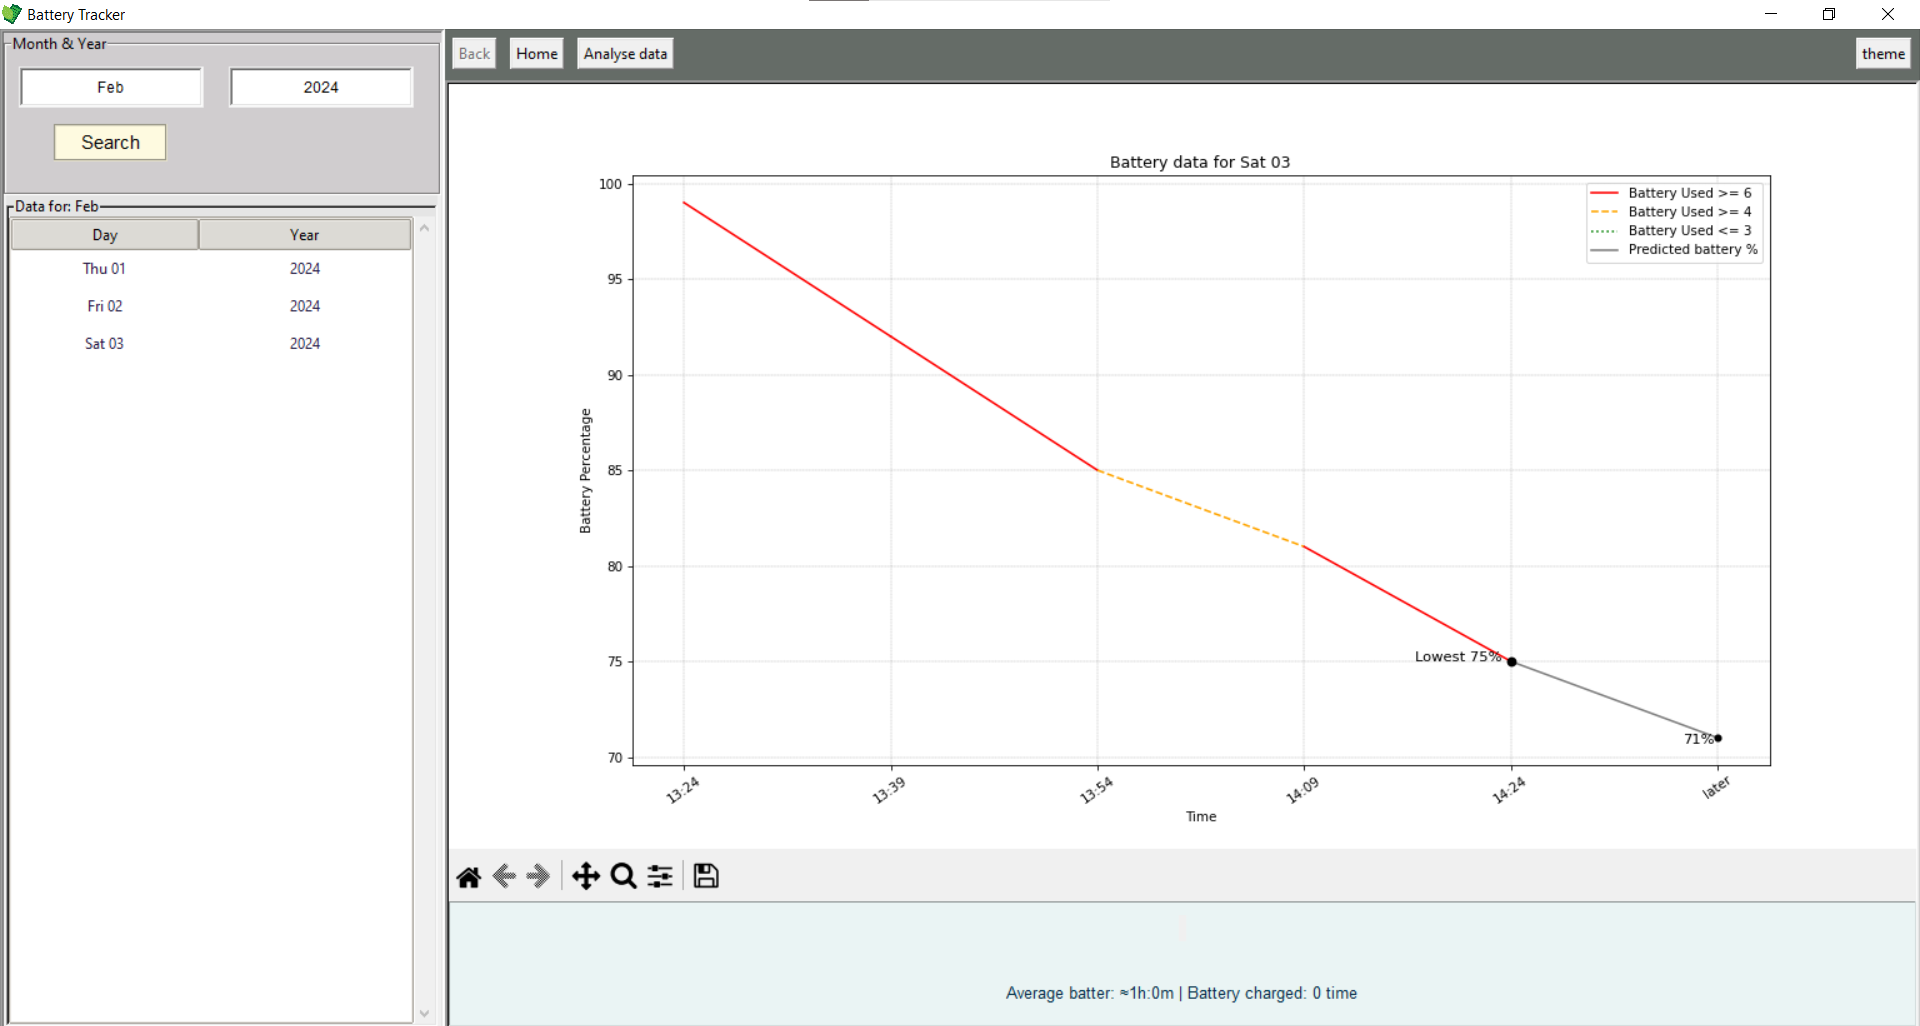
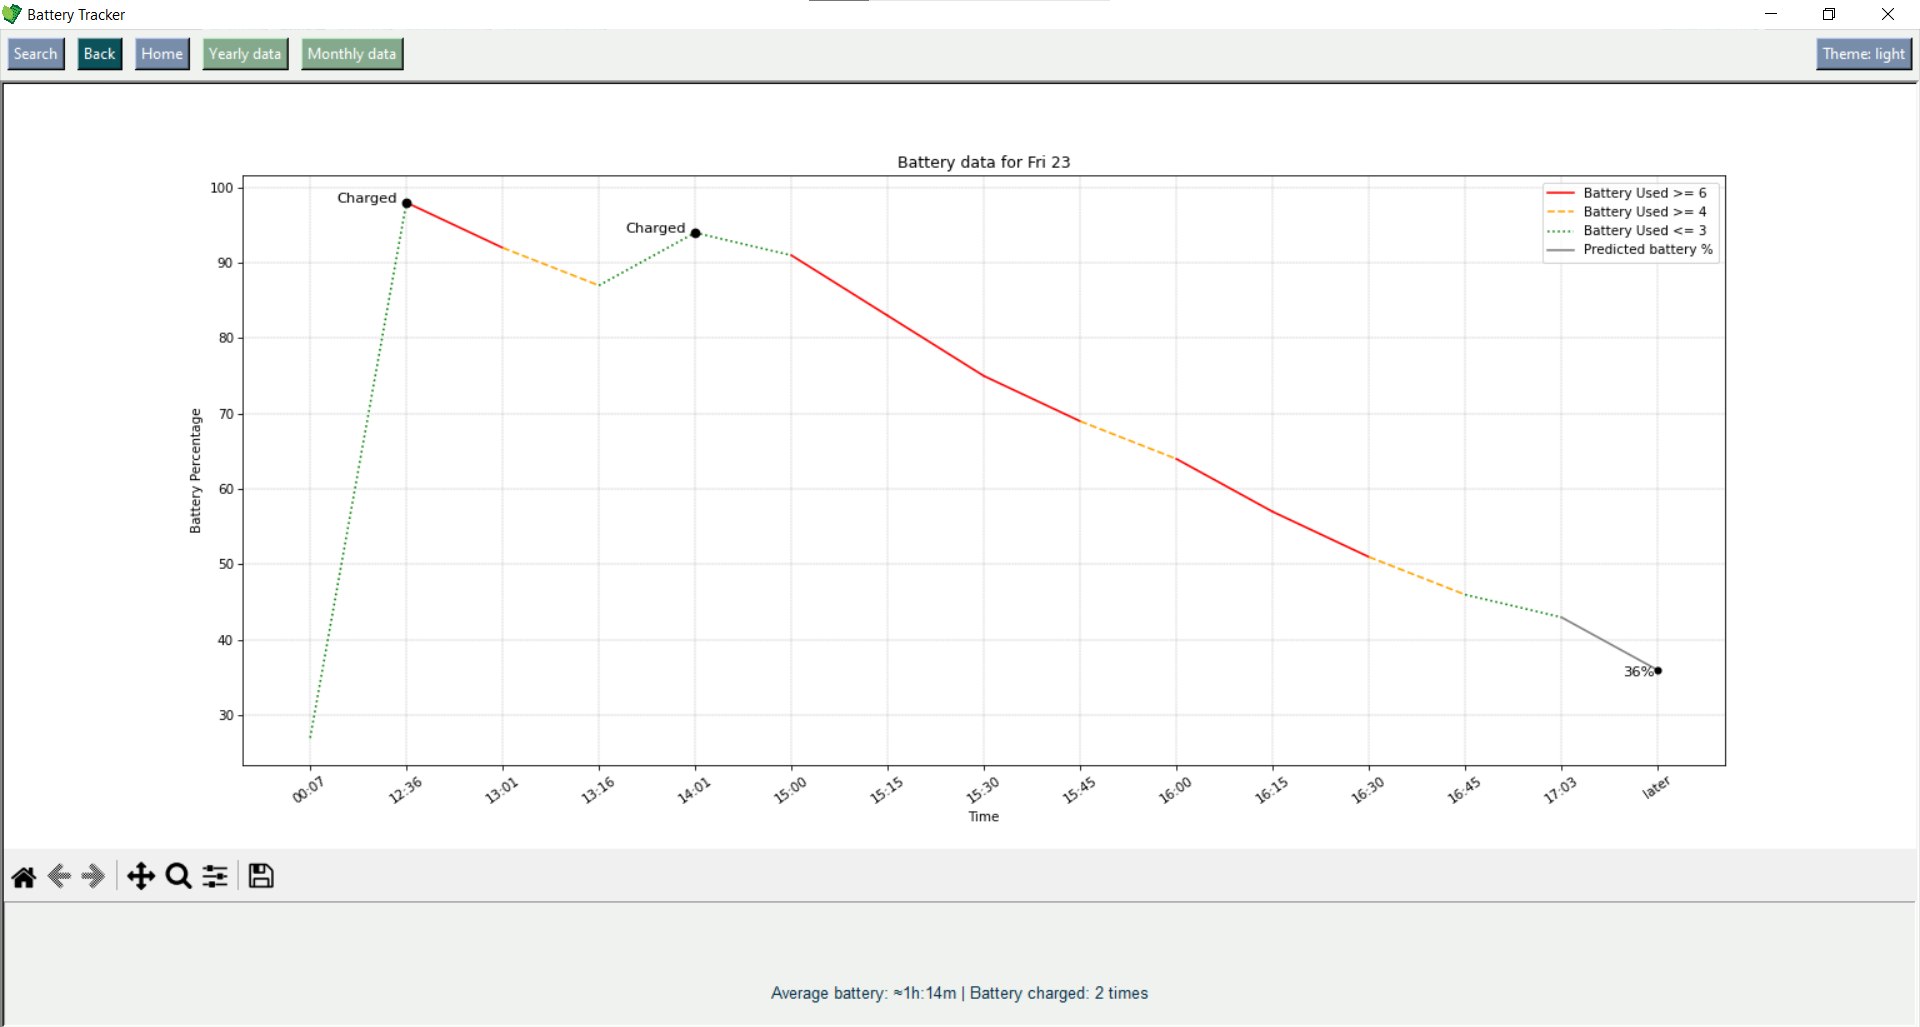
new model

diff --git a/BatteryTracker.py b/BatteryTracker.py
@@ -17,6 +17,10 @@ day = now.strftime("%a %d")
 month = now.strftime("%b")
 year = now.strftime("%Y")
 
+
+#NOTE: THE APP is in pre-built so the paths are written like this for now, later 
+#there will be another app for instalation and cofiguration
+
 window = Tk()
 window.title("Battery Tracker")
 window.iconbitmap("logo/logoNBW.ico")
@@ -53,10 +57,11 @@ class colorPalette:
       ...
 
 # AppFunctions with all methods for the app
-class AppFunctions:
+class AppFunctions: #BUG: make one function for creating graph so there isn't any duplicate codes
    def __init__(self, navigationStack, colorPalette):
       self.stack = navigationStack
       self.colors = colorPalette
+      self.searchON = False
       self.months = ['Jan', 'Feb', 'Mar', 'Apr', 'May', 'Jun', 'Jul', 'Aug', 'Sep', 'Oct', 'Nov', 'Dec']
 
    def switchTheme(self):#TODO: make switch themes option
@@ -75,6 +80,9 @@ class AppFunctions:
    def backButton(self): # returns to the previus graph
       self.stack.pop_call(self)
    
+   def searchButton(self):
+      sideFrame.pack(side=LEFT, fill='y')
+
    def homeButton(self):
       self.stack.add(self.getData, month, day, year)
    
@@ -216,7 +224,7 @@ class AppFunctions:
       else:
          errorLabel.config(text="Empty inputs!.")
    
-   def prepare_data(self, data) -> np.ndarray: #interval=2 is how many samples will the model accept, because it's trained to work with 2, it only needs 2 samples
+   def prepare_data(self, data) -> np.ndarray: #prepares the data for the liner regression model
       X = []
 
       for i in range(0, len(data) - 1):
@@ -227,7 +235,7 @@ class AppFunctions:
 
       #Convert lists to numpy arrays
       X = np.array(X)
-      sample_input = X[-2:]
+      sample_input = X[-3:]
 
       return sample_input
    
@@ -353,6 +361,9 @@ class AppFunctions:
       chargedCounts = []
       months = [] #storing only months that have data
 
+      if not getYear:
+         getYear = year #if getYear is nullPtr then get the current year.
+
       try:
          for month in self.months:
             with sql.connect(databasePath) as conn:
@@ -376,7 +387,7 @@ class AppFunctions:
          
          ax.set_xlabel('Months')
          ax.set_ylabel('Charging Counts')
-         ax.set_title(f'Battery Charging Count per Month for {year}')
+         ax.set_title(f'Battery Charging Count per Month for {getYear}')
          
          ax.bar(months, chargedCounts, color='b', width=0.4)
          ax.axhline(y=avgChargedCount, color='orange', linestyle='dashed', label=f'Average charged per month: {avgChargedCount:.2f}')
@@ -439,6 +450,10 @@ class AppFunctions:
       getMonth = searchMonth.get()
       getYear = searchYear.get()
 
+      if not getYear and not getMonth:
+         getYear = year #if getYear and getMonth are nullPtrs then get the current year and month.
+         getMonth = month
+
       with sql.connect(databasePath) as conn:
          cursor = conn.cursor()
          if getMonth and getYear:
@@ -472,7 +487,7 @@ class AppFunctions:
          ax1.set_xticks(range(len(days)))
          ax1.set_xticklabels(days, rotation=35)
          ax1.set_xlabel("Days")
-         ax1.set_title(f'Battery count for {month}')
+         ax1.set_title(f'Battery count for {getMonth}')
 
          #Label placeholders
          avgChargedLabel = ax1.plot([], [], color='orange', linestyle='dashed', label=f'AVG charged: {avgChargedCount:.2f}')
@@ -506,7 +521,7 @@ class AppFunctions:
          ax2.set_xlabel("Days")
          ax2.set_xticks(range(len(days)))
          ax2.set_xticklabels(days, rotation=35)
-         ax2.set_title(f'Average battery usage per day for {month}')
+         ax2.set_title(f'Average battery usage per day for {getMonth}')
          ax2.bar(days, daily_avg_usage, color='g', label='Avg usage')
 
          ax2.legend()
@@ -592,10 +607,9 @@ class AppUI:
       self.main()
 
    def main(self):
-      global errorLabel, menuBar, graphFrame, battery_info, my_tree, dataFrame, nextB, backB, themeButton, yearlyButton, monthlyButton, searchMonth, searchYear
+      global errorLabel, menuBar, graphFrame, battery_info, my_tree, dataFrame, nextB, backB, themeButton, yearlyButton, monthlyButton, searchMonth, searchYear, sideFrame
 
       sideFrame = Frame(window, relief='sunken', height=self.appHeight, width=350, border=3)
-      sideFrame.pack(side=LEFT, fill='y')
 
       searchFrame = LabelFrame(sideFrame, height=130, width=350, bg=f"{self.colors.primaryC}", text='Month & Year')
       searchFrame.grid(row=0, column=0, sticky='n')
@@ -653,6 +667,9 @@ class AppUI:
       menuBar.pack(fill=BOTH, expand=True)
 
       ###BUTTONS###
+      searchB = Button(menuBar, text="Search", command=self.func.searchButton, bg=f'{self.colors.buttonColor}', fg="white", cursor="hand2")
+      searchB.pack(side="left", padx=5, pady=2)
+
       backB = Button(menuBar, text="Back", state="disabled", command=self.func.backButton, bg=f'{self.colors.disabledButton}', fg="white", cursor="hand2")
       backB.configure(disabledforeground="white")
       backB.pack(side="left", padx=5, pady=2)

diff --git a/linearModel/trainMode.py b/linearModel/trainMode.py
@@ -13,7 +13,7 @@ X = []  # Features (battery percentage differences)
 Y = []  # Target (battery percentage change for future time interval)
 
 # Define the time intervals for prediction (e.g., 30 minutes)
-prediction_interval = 2
+prediction_interval = 3
 months = ['jan', 'feb', 'mar', 'apr', 'may', 'jun', 'jul', 'aug', 'sep', 'oct', 'nov', 'dec']
 years = [2023, 2024]
 
